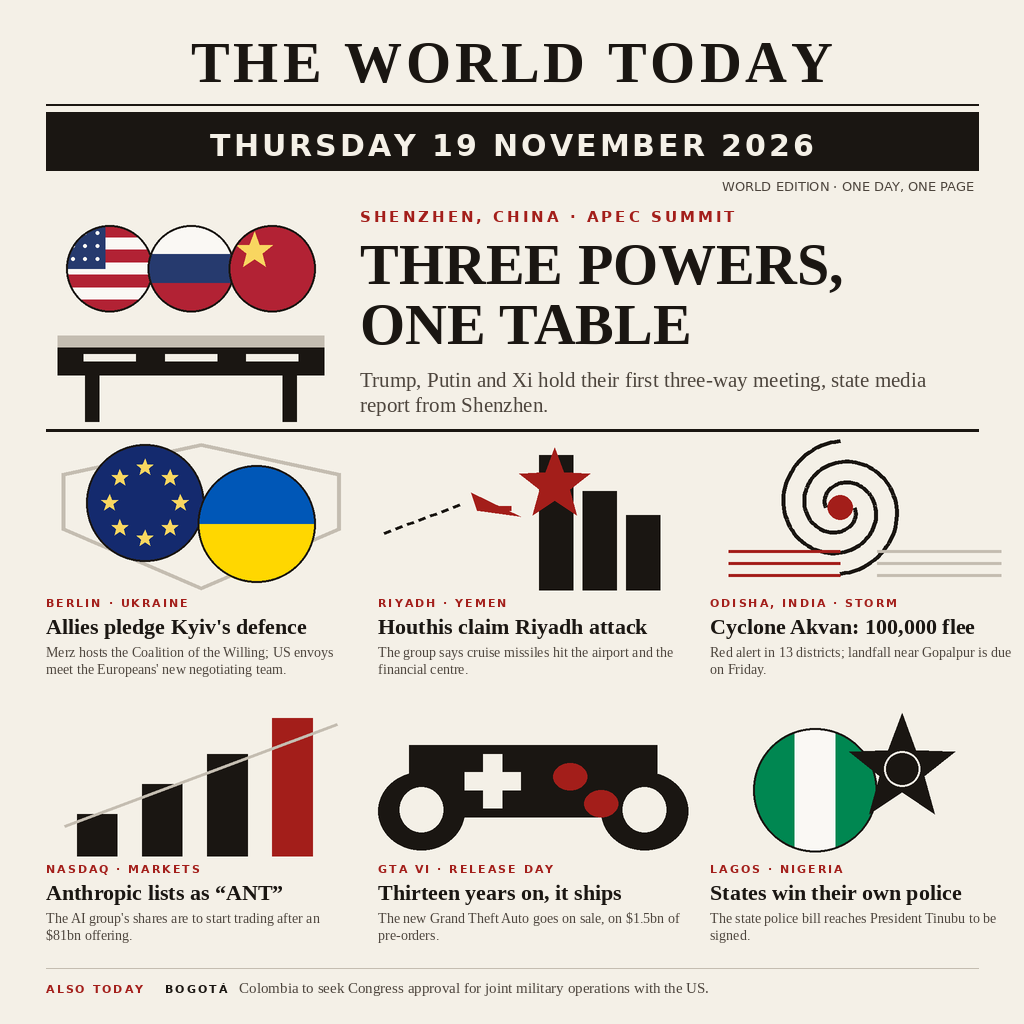
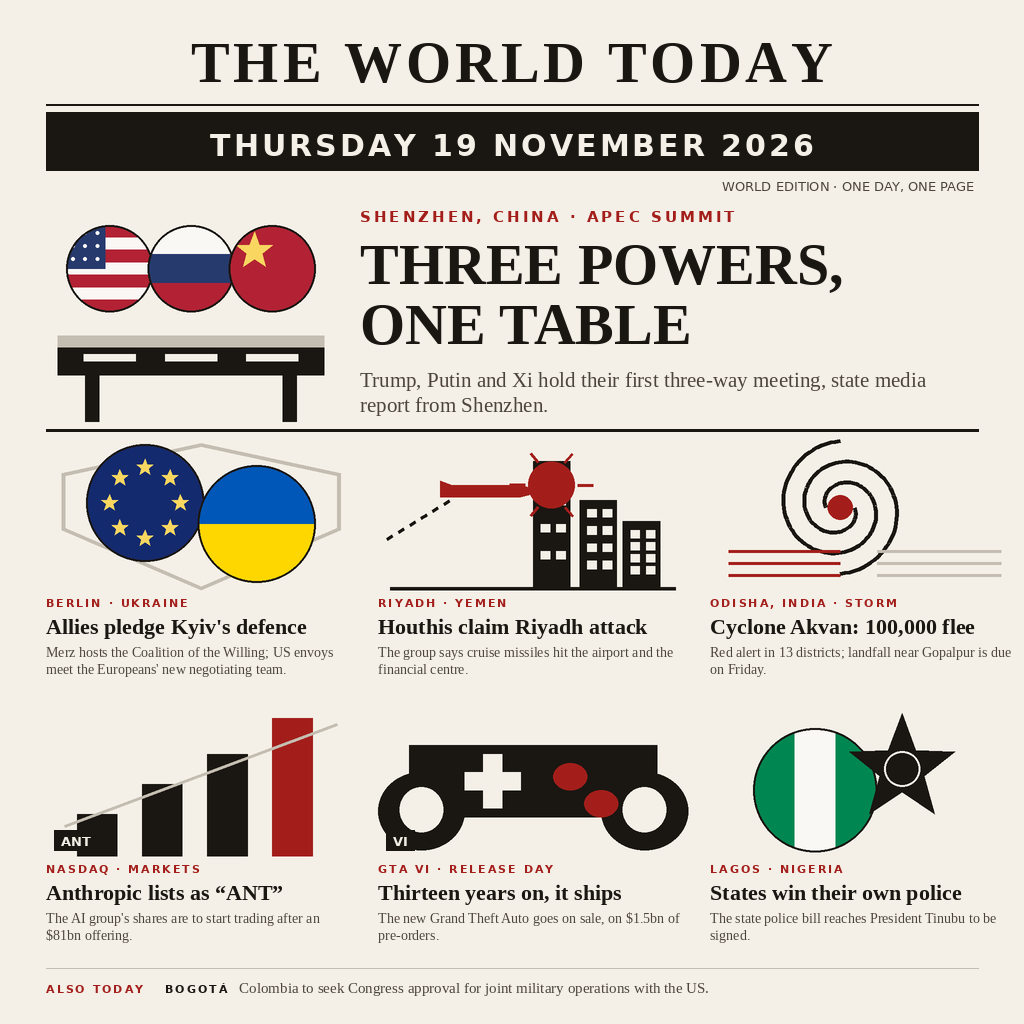
Make the two weakest pictures read without their captions
The judged verdicts on the version before this one said the Riyadh panel's
picture needed its caption: its towers read as a bar chart and its burst as a
star. So the strike picture is now a windowed skyline on a ground line with a
cruise missile in flight and a burst of a disc and spikes over the tallest
tower, and the two panels whose subject cannot be guessed from a generic
picture carry a word of type inside it - the ticker the shares trade as, and
the number of the game.

diff --git a/design/make_page.py b/design/make_page.py
@@ -108,6 +108,10 @@ BRIEFS = [
                    "with the US."),
 ]
 
+# a word inside the picture, for the stories whose picture needs one to read
+# unmistakably (the ticker the shares trade as, and the number of the game)
+PICTURE_TAGS = {3: "ANT", 4: "VI"}
+
 MARGIN = 46
 COLS = 3
 COL_W = 310
@@ -283,19 +287,35 @@ def picture(base: Image.Image, box, kind: str):
         flag(x0 + w * 0.34, cy + h * 0.06, w * 0.2, "ng")
         badge(x0 + w * 0.62, cy - h * 0.08, w * 0.18, INK)
     elif kind == "strike":
-        # a city under a missile: three towers, a missile in flight, a burst on it
-        for fx, fh in ((0.52, 0.9), (0.66, 0.66), (0.8, 0.5)):
-            rect(x0 + w * fx, y1 - h * fh, x0 + w * (fx + 0.11), y1, fill=INK)
-        mbx, mby = x0 + w * 0.3, y0 + h * 0.42
-        poly([(mbx, mby - h * 0.07), (mbx + w * 0.16, mby + h * 0.09),
-              (mbx + w * 0.02, mby + h * 0.05)], fill=RED)
-        rect(mbx + w * 0.06, mby + h * 0.02, mbx + w * 0.13, mby + h * 0.05, fill=RED)
-        for t in range(7):
-            t0, t1 = t / 7, (t + 0.55) / 7
-            line((x0 + w * (0.02 + 0.26 * t0), y0 + h * (0.62 - 0.2 * t0)),
-                 (x0 + w * (0.02 + 0.26 * t1), y0 + h * (0.62 - 0.2 * t1)),
+        # a city under a missile: a windowed skyline on the ground, a cruise
+        # missile in flight with its trail, and a burst over the tallest tower
+        rect(x0 + w * 0.04, y1 - 3, x1 - w * 0.04, y1, fill=INK)
+        for fx, fh in ((0.5, 0.86), (0.65, 0.6), (0.79, 0.46)):
+            top = y1 - h * fh
+            rect(x0 + w * fx, top, x0 + w * (fx + 0.12), y1 - 2, fill=INK)
+            for row in range(4):
+                wy = top + h * 0.06 + row * h * (fh - 0.14) / 4
+                for col in range(2):
+                    wx = x0 + w * fx + w * (0.025 + col * 0.05)
+                    rect(wx, wy, wx + w * 0.03, wy + h * 0.055, fill=PAPER)
+        mx, my = x0 + w * 0.24, y0 + h * 0.3
+        rect(mx, my, mx + w * 0.22, my + h * 0.08, fill=RED)
+        poly([(mx + w * 0.22, my), (mx + w * 0.22, my + h * 0.08),
+              (mx + w * 0.3, my + h * 0.04)], fill=RED)
+        poly([(mx, my), (mx, my + h * 0.08), (mx - w * 0.04, my + h * 0.08),
+              (mx - w * 0.04, my - h * 0.03)], fill=RED)
+        for t in range(6):
+            t0, t1 = t / 6, (t + 0.5) / 6
+            line((x0 + w * (0.03 + 0.22 * t0), y0 + h * (0.66 - 0.28 * t0)),
+                 (x0 + w * (0.03 + 0.22 * t1), y0 + h * (0.66 - 0.28 * t1)),
                  fill=INK, width=3 * S)
-        burst(x0 + w * 0.57, y0 + h * 0.3, w * 0.12, RED)
+        bx, by = x0 + w * 0.56, y0 + h * 0.3
+        ell(bx - w * 0.075, by - h * 0.155, bx + w * 0.075, by + h * 0.155, fill=RED)
+        for k in range(6):
+            a = k * math.pi / 3
+            line((bx + w * 0.085 * math.cos(a), by + h * 0.17 * math.sin(a)),
+                 (bx + w * 0.135 * math.cos(a), by + h * 0.24 * math.sin(a)),
+                 fill=RED, width=3 * S)
     elif kind == "cyclone":
         ccx, ccy = x0 + w * 0.42, cy - h * 0.05
         for arm in (0, math.pi):
@@ -375,6 +395,12 @@ def draw_page() -> Image.Image:
         head_font = font(SERIF_BOLD, PANEL_HEAD)
         if head_font.getlength(headline) > COL_W:
             raise ValueError(f"headline is too wide for its panel: {headline!r}")
+        tag = PICTURE_TAGS.get(idx)
+        if tag:
+            tag_font = font(SANS_BOLD, 13)
+            tw = tag_font.getlength(tag) + 14
+            d.rectangle([px + 8, py + PIC_H - 26, px + 8 + tw, py + PIC_H - 6], fill=INK)
+            d.text((px + 15, py + PIC_H - 23), tag, font=tag_font, fill=PAPER)
         d.text((px, py + TEXT_TOP + 18), headline, font=head_font, fill=INK)
         block(d, (px, py + TEXT_TOP + 48), line_, font(SERIF, PANEL_BODY), COL_W, 17, MUTED)
 
